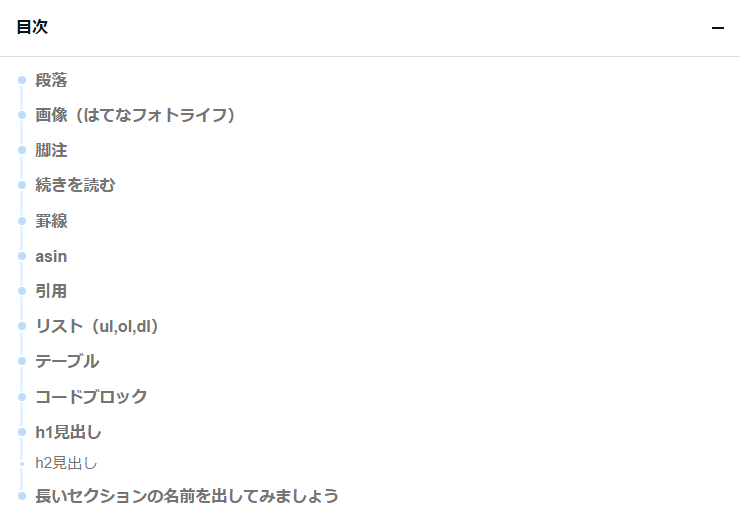
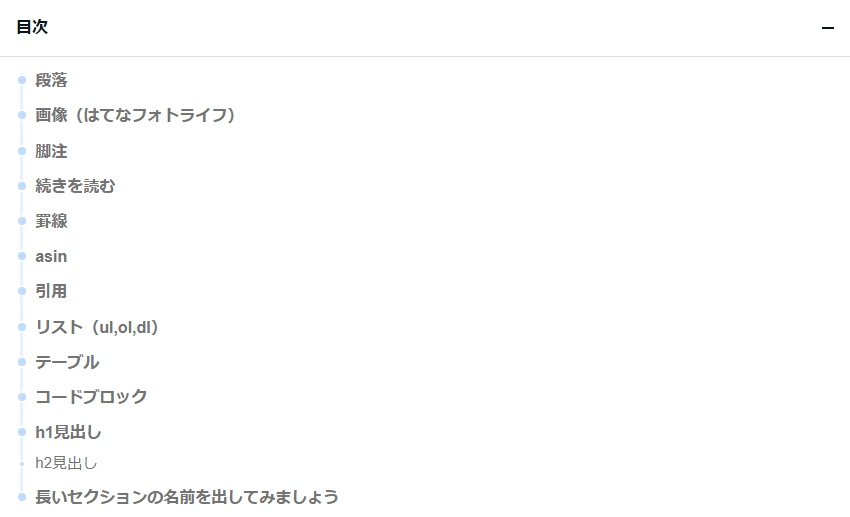
docs: update introduction for new resolution 1440x1440

Changed region(s): [[0.0, 0.1238, 0.4662, 0.9903], [0.0, 0.0309, 0.0622, 0.0619]]

diff --git a/capture-all-screenshots.js b/capture-all-screenshots.js
@@ -6,7 +6,7 @@ import { chromium } from '@playwright/test';
  * すべてのスクリーンショット取得処理がこの1ファイルにまとまっています
  *
  * 対応デバイス:
- * - PC (Surface Pro 7): 912x1368
+ * - PC (大き目ラップトップ): 1440x1440
  * - タブレット (iPad Pro 12.9): 1024x1366
  * - スマートフォン (iPhone 14 Pro Max): 430x932
  *
@@ -38,10 +38,10 @@ import { chromium } from '@playwright/test';
     };
 
     // ==========================================
-    // PC (Surface Pro 7, 912x1368) 解像度のスクリーンショット
+    // PC (FullHD, 1440x1440) 解像度のスクリーンショット
     // ==========================================
     console.log('PC解像度のスクリーンショット取得を開始...');
-    await page.setViewportSize({ width: 912, height: 1368 });
+    await page.setViewportSize({ width: 1440, height: 1440 });
 
     // 記事ページの上部キャプチャ
     console.log('記事ページの上部のスクリーンショット取得中...');
